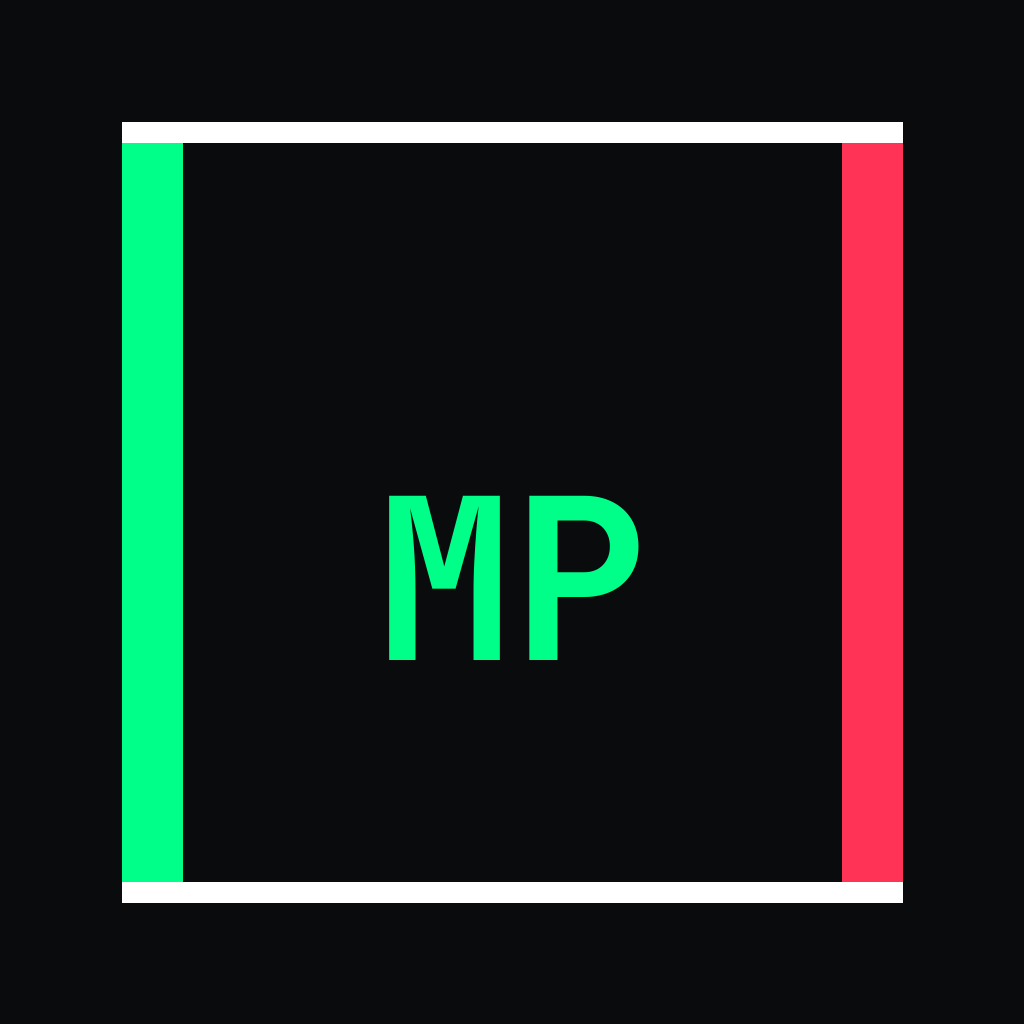
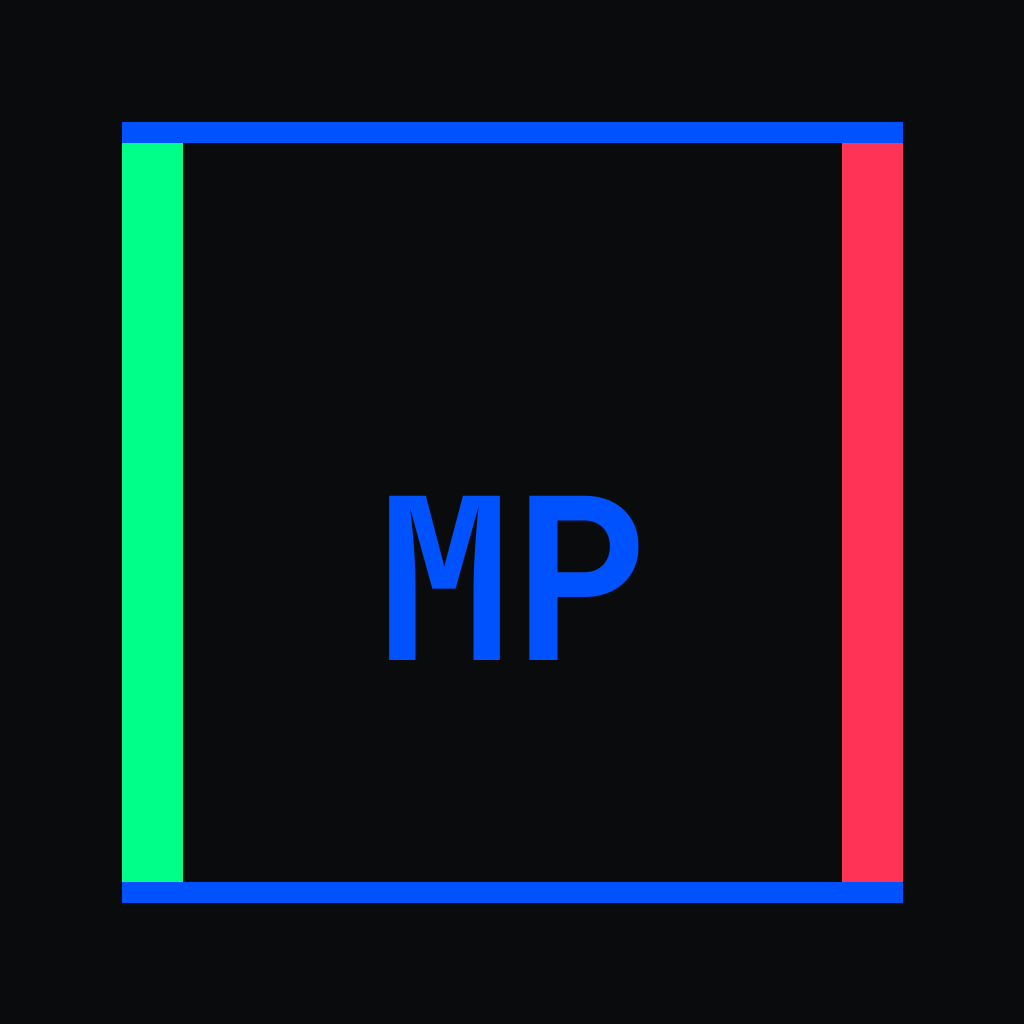
style: MemePred wordmark + chrome in Base blue, keep UP/DOWN green/red
Per feedback: everything except literal UP/DOWN indicators should use
Base's official brand blue (#0052FF) instead of white/grey, matching
Base chain branding.

Changed region(s): [[0.125, 0.0938, 0.9062, 0.1562], [0.125, 0.8438, 0.875, 0.9062], [0.375, 0.4688, 0.625, 0.6562]]

diff --git a/scripts/generate-app-images.py b/scripts/generate-app-images.py
@@ -20,8 +20,7 @@ FONT_PATH  = os.path.join(SCRIPT_DIR, "..", ".cache", "JetBrainsMono-Bold.ttf")
 BG_COLOR     = "#0a0b0d"
 GREEN        = "#00ff88"
 RED          = "#ff3355"
-TEXT_WHITE   = "#FFFFFF"
-TEXT_GREY    = "#8A919E"
+BASE_BLUE    = "#0052FF"  # official Base brand blue — everything except UP/DOWN uses this
 
 os.makedirs(OUTPUT_DIR, exist_ok=True)
 
@@ -37,18 +36,18 @@ def centered_text(draw, cx, y, text, fnt, fill):
 
 
 def make_icon(size, path):
-    """Square app icon: black bg, green square-bracket mark + wordmark."""
+    """Square app icon: black bg, blue frame/wordmark, green/red side bars
+    (the only up/down-coded elements) echoing a candlestick/orderbook motif."""
     img = Image.new("RGB", (size, size), BG_COLOR)
     d = ImageDraw.Draw(img)
     pad = int(size * 0.12)
     bar = max(2, int(size * 0.02))
-    # Bracket mark, echoing a candlestick/orderbook motif.
     d.rectangle([pad, pad, pad + bar * 3, size - pad], fill=GREEN)
     d.rectangle([size - pad - bar * 3, pad, size - pad, size - pad], fill=RED)
-    d.rectangle([pad, pad, size - pad, pad + bar], fill=TEXT_WHITE)
-    d.rectangle([pad, size - pad - bar, size - pad, size - pad], fill=TEXT_WHITE)
+    d.rectangle([pad, pad, size - pad, pad + bar], fill=BASE_BLUE)
+    d.rectangle([pad, size - pad - bar, size - pad, size - pad], fill=BASE_BLUE)
     mark_font = font(int(size * 0.22))
-    centered_text(d, size / 2, size * 0.42, "MP", mark_font, GREEN)
+    centered_text(d, size / 2, size * 0.42, "MP", mark_font, BASE_BLUE)
     img.save(path)
 
 
@@ -56,7 +55,7 @@ def make_splash(size, path):
     img = Image.new("RGB", (size, size), "#000000")
     d = ImageDraw.Draw(img)
     mark_font = font(int(size * 0.28))
-    centered_text(d, size / 2, size * 0.38, "MP", mark_font, GREEN)
+    centered_text(d, size / 2, size * 0.38, "MP", mark_font, BASE_BLUE)
     img.save(path)
 
 
@@ -74,8 +73,8 @@ def make_wide(w, h, path, title, subtitle):
     sub_font      = font(int(h * 0.055))
     up_font       = font(int(h * 0.09))
 
-    centered_text(d, w / 2, h * 0.28, title, title_font, TEXT_WHITE)
-    centered_text(d, w / 2, h * 0.5, subtitle, sub_font, TEXT_GREY)
+    centered_text(d, w / 2, h * 0.28, title, title_font, BASE_BLUE)
+    centered_text(d, w / 2, h * 0.5, subtitle, sub_font, BASE_BLUE)
 
     up_text, down_text = "UP", "DOWN"
     gap = int(w * 0.06)
